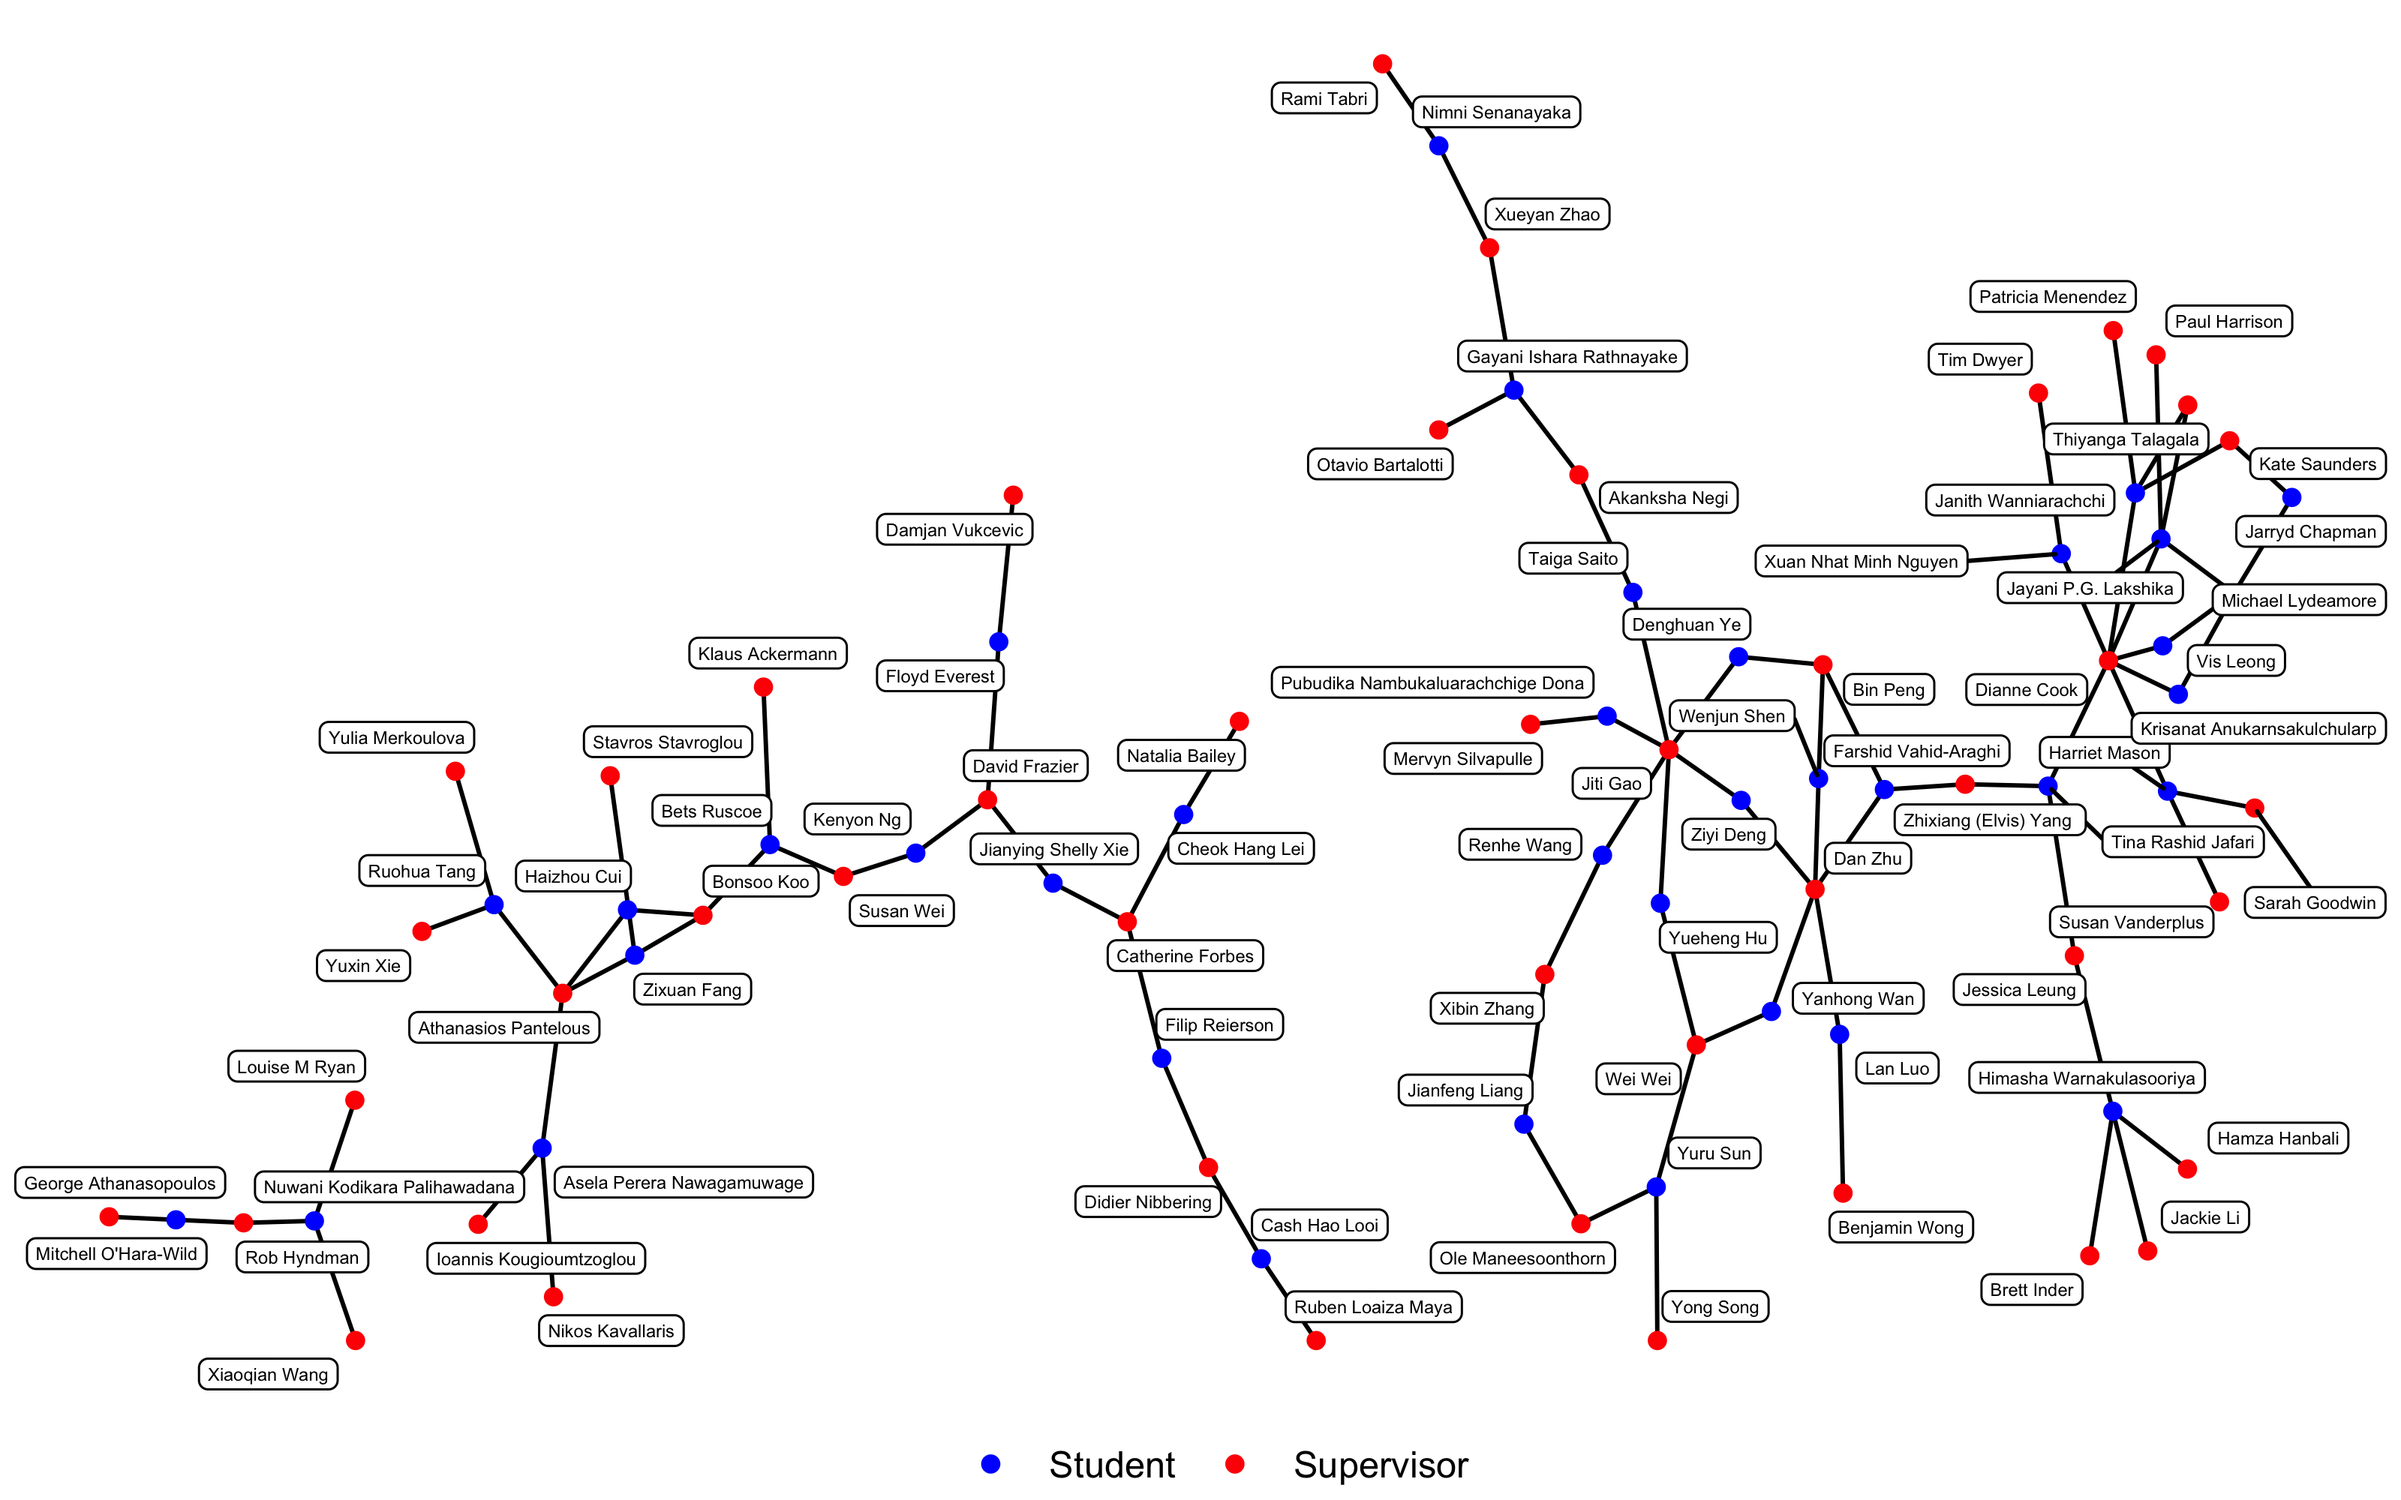
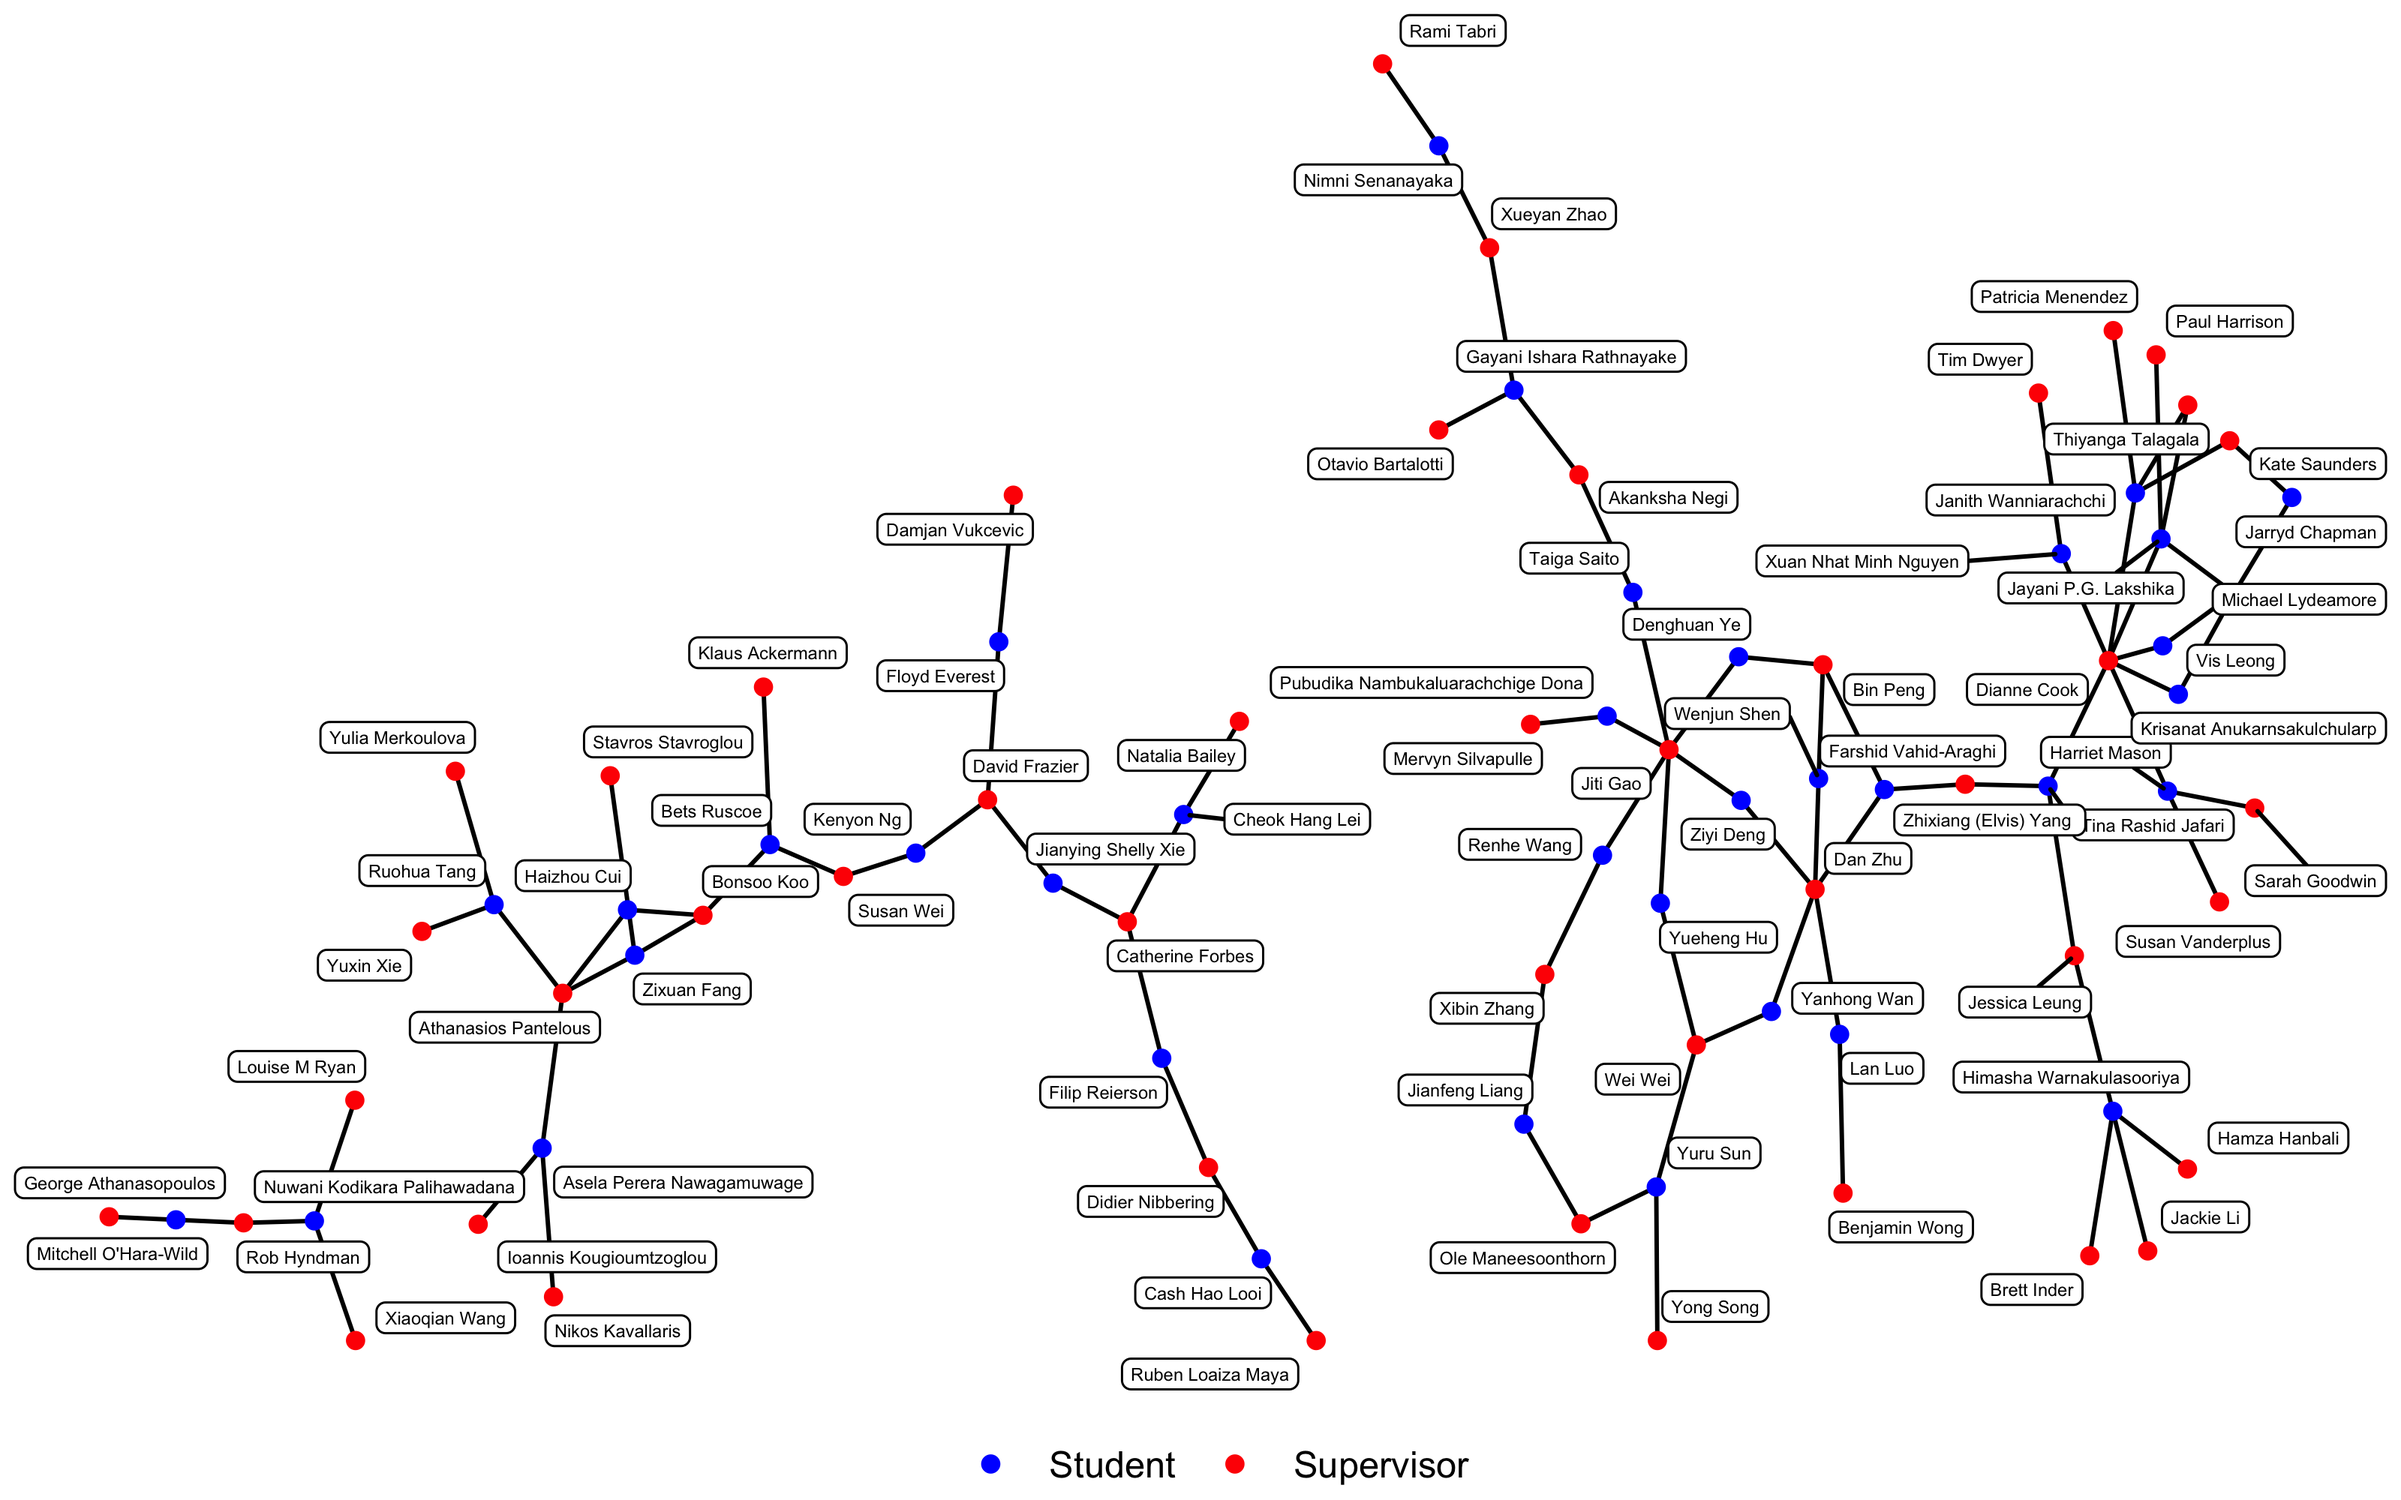
render the website

diff --git a/docs/ebs-network.html b/docs/ebs-network.html
@@ -39,7 +39,7 @@ ul.task-list li input[type="checkbox"] {
 <link href="site_libs/quarto-html/quarto-syntax-highlighting-e1a5c8363afafaef2c763b6775fbf3ca.css" rel="stylesheet" id="quarto-text-highlighting-styles">
 <script src="site_libs/bootstrap/bootstrap.min.js"></script>
 <link href="site_libs/bootstrap/bootstrap-icons.css" rel="stylesheet">
-<link href="site_libs/bootstrap/bootstrap-bf3afff1f2118d8404b0a597988d719c.min.css" rel="stylesheet" append-hash="true" id="quarto-bootstrap" data-mode="light">
+<link href="site_libs/bootstrap/bootstrap-7ddc9d049bfdaac3c4ff02dd6ab91016.min.css" rel="stylesheet" append-hash="true" id="quarto-bootstrap" data-mode="light">
 <script src="site_libs/quarto-contrib/glightbox/glightbox.min.js"></script>
 <link href="site_libs/quarto-contrib/glightbox/glightbox.min.css" rel="stylesheet">
 <link href="site_libs/quarto-contrib/glightbox/lightbox.css" rel="stylesheet">

diff --git a/docs/posts/department-network/index.html b/docs/posts/department-network/index.html
@@ -77,7 +77,7 @@ pre > code.sourceCode > span > a:first-child::before { text-decoration: underlin
 <link href="../../site_libs/quarto-html/quarto-syntax-highlighting-e1a5c8363afafaef2c763b6775fbf3ca.css" rel="stylesheet" id="quarto-text-highlighting-styles">
 <script src="../../site_libs/bootstrap/bootstrap.min.js"></script>
 <link href="../../site_libs/bootstrap/bootstrap-icons.css" rel="stylesheet">
-<link href="../../site_libs/bootstrap/bootstrap-bf3afff1f2118d8404b0a597988d719c.min.css" rel="stylesheet" append-hash="true" id="quarto-bootstrap" data-mode="light">
+<link href="../../site_libs/bootstrap/bootstrap-7ddc9d049bfdaac3c4ff02dd6ab91016.min.css" rel="stylesheet" append-hash="true" id="quarto-bootstrap" data-mode="light">
 <script id="quarto-search-options" type="application/json">{
   "location": "navbar",
   "copy-button": false,

diff --git a/docs/posts/slide-extension/index.html b/docs/posts/slide-extension/index.html
@@ -77,7 +77,7 @@ pre > code.sourceCode > span > a:first-child::before { text-decoration: underlin
 <link href="../../site_libs/quarto-html/quarto-syntax-highlighting-e1a5c8363afafaef2c763b6775fbf3ca.css" rel="stylesheet" id="quarto-text-highlighting-styles">
 <script src="../../site_libs/bootstrap/bootstrap.min.js"></script>
 <link href="../../site_libs/bootstrap/bootstrap-icons.css" rel="stylesheet">
-<link href="../../site_libs/bootstrap/bootstrap-bf3afff1f2118d8404b0a597988d719c.min.css" rel="stylesheet" append-hash="true" id="quarto-bootstrap" data-mode="light">
+<link href="../../site_libs/bootstrap/bootstrap-7ddc9d049bfdaac3c4ff02dd6ab91016.min.css" rel="stylesheet" append-hash="true" id="quarto-bootstrap" data-mode="light">
 <script id="quarto-search-options" type="application/json">{
   "location": "navbar",
   "copy-button": false,

diff --git a/docs/blog.html b/docs/blog.html
@@ -41,7 +41,7 @@ ul.task-list li input[type="checkbox"] {
 <link href="site_libs/quarto-html/quarto-syntax-highlighting-e1a5c8363afafaef2c763b6775fbf3ca.css" rel="stylesheet" id="quarto-text-highlighting-styles">
 <script src="site_libs/bootstrap/bootstrap.min.js"></script>
 <link href="site_libs/bootstrap/bootstrap-icons.css" rel="stylesheet">
-<link href="site_libs/bootstrap/bootstrap-bf3afff1f2118d8404b0a597988d719c.min.css" rel="stylesheet" append-hash="true" id="quarto-bootstrap" data-mode="light">
+<link href="site_libs/bootstrap/bootstrap-7ddc9d049bfdaac3c4ff02dd6ab91016.min.css" rel="stylesheet" append-hash="true" id="quarto-bootstrap" data-mode="light">
 <script id="quarto-search-options" type="application/json">{
   "location": "navbar",
   "copy-button": false,

diff --git a/docs/cv.html b/docs/cv.html
@@ -39,7 +39,7 @@ ul.task-list li input[type="checkbox"] {
 <link href="site_libs/quarto-html/quarto-syntax-highlighting-e1a5c8363afafaef2c763b6775fbf3ca.css" rel="stylesheet" id="quarto-text-highlighting-styles">
 <script src="site_libs/bootstrap/bootstrap.min.js"></script>
 <link href="site_libs/bootstrap/bootstrap-icons.css" rel="stylesheet">
-<link href="site_libs/bootstrap/bootstrap-bf3afff1f2118d8404b0a597988d719c.min.css" rel="stylesheet" append-hash="true" id="quarto-bootstrap" data-mode="light">
+<link href="site_libs/bootstrap/bootstrap-7ddc9d049bfdaac3c4ff02dd6ab91016.min.css" rel="stylesheet" append-hash="true" id="quarto-bootstrap" data-mode="light">
 <script id="quarto-search-options" type="application/json">{
   "location": "navbar",
   "copy-button": false,

diff --git a/docs/hacky-hour.html b/docs/hacky-hour.html
@@ -39,7 +39,7 @@ ul.task-list li input[type="checkbox"] {
 <link href="site_libs/quarto-html/quarto-syntax-highlighting-e1a5c8363afafaef2c763b6775fbf3ca.css" rel="stylesheet" id="quarto-text-highlighting-styles">
 <script src="site_libs/bootstrap/bootstrap.min.js"></script>
 <link href="site_libs/bootstrap/bootstrap-icons.css" rel="stylesheet">
-<link href="site_libs/bootstrap/bootstrap-bf3afff1f2118d8404b0a597988d719c.min.css" rel="stylesheet" append-hash="true" id="quarto-bootstrap" data-mode="light">
+<link href="site_libs/bootstrap/bootstrap-7ddc9d049bfdaac3c4ff02dd6ab91016.min.css" rel="stylesheet" append-hash="true" id="quarto-bootstrap" data-mode="light">
 <script id="quarto-search-options" type="application/json">{
   "location": "navbar",
   "copy-button": false,

diff --git a/docs/index.html b/docs/index.html
@@ -38,7 +38,7 @@ ul.task-list li input[type="checkbox"] {
 <link href="site_libs/quarto-html/quarto-syntax-highlighting-e1a5c8363afafaef2c763b6775fbf3ca.css" rel="stylesheet" id="quarto-text-highlighting-styles">
 <script src="site_libs/bootstrap/bootstrap.min.js"></script>
 <link href="site_libs/bootstrap/bootstrap-icons.css" rel="stylesheet">
-<link href="site_libs/bootstrap/bootstrap-bf3afff1f2118d8404b0a597988d719c.min.css" rel="stylesheet" append-hash="true" id="quarto-bootstrap" data-mode="light">
+<link href="site_libs/bootstrap/bootstrap-7ddc9d049bfdaac3c4ff02dd6ab91016.min.css" rel="stylesheet" append-hash="true" id="quarto-bootstrap" data-mode="light">
 <script id="quarto-search-options" type="application/json">{
   "location": "navbar",
   "copy-button": false,

diff --git a/docs/software.html b/docs/software.html
@@ -39,7 +39,7 @@ ul.task-list li input[type="checkbox"] {
 <link href="site_libs/quarto-html/quarto-syntax-highlighting-e1a5c8363afafaef2c763b6775fbf3ca.css" rel="stylesheet" id="quarto-text-highlighting-styles">
 <script src="site_libs/bootstrap/bootstrap.min.js"></script>
 <link href="site_libs/bootstrap/bootstrap-icons.css" rel="stylesheet">
-<link href="site_libs/bootstrap/bootstrap-bf3afff1f2118d8404b0a597988d719c.min.css" rel="stylesheet" append-hash="true" id="quarto-bootstrap" data-mode="light">
+<link href="site_libs/bootstrap/bootstrap-7ddc9d049bfdaac3c4ff02dd6ab91016.min.css" rel="stylesheet" append-hash="true" id="quarto-bootstrap" data-mode="light">
 <script id="quarto-search-options" type="application/json">{
   "location": "navbar",
   "copy-button": false,

diff --git a/docs/site_libs/bootstrap/bootstrap-7ddc9d049bfdaac3c4ff02dd6ab91016.min.css b/docs/site_libs/bootstrap/bootstrap-7ddc9d049bfdaac3c4ff02dd6ab91016.min.css
@@ -1,4 +1,4 @@
-@import"https://fonts.googleapis.com/css2?family=Fraunces:opsz,wght@9..144,500;9..144,600;9..144,700&family=Nunito+Sans:opsz,wght@6..12,400;6..12,500;6..12,600;6..12,700;6..12,800&display=swap";/*!
+@import"https://fonts.googleapis.com/css2?family=Baloo+2:wght@500;700;800&family=Nunito:wght@400;600;700&display=swap";/*!
  * Bootstrap  v5.3.1 (https://getbootstrap.com/)
  * Copyright 2011-2023 The Bootstrap Authors
  * Licensed under MIT (https://github.com/twbs/bootstrap/blob/main/LICENSE)
